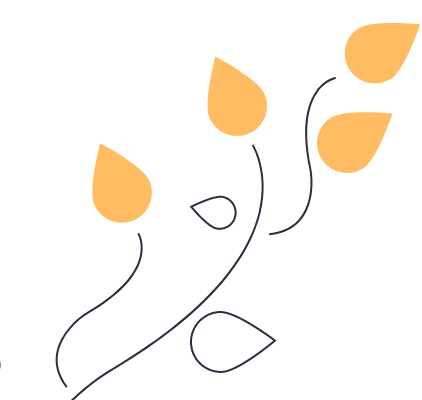
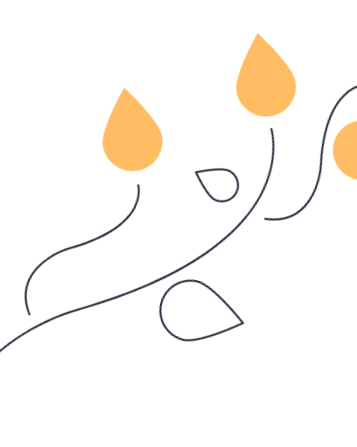
background img fix

diff --git a/resources/views/home/events.blade.php b/resources/views/home/events.blade.php
@@ -10,7 +10,7 @@
                 background-image: url(img/background-lotus.png);
                 background-repeat: no-repeat;
                 background-position: center right;
-                /* background-size: 200px; */
+                background-size: 350px;
             }
             .events__title-fix{
                 max-width: 100%;

diff --git a/resources/views/home/our-service.blade.php b/resources/views/home/our-service.blade.php
@@ -30,7 +30,8 @@
             box-shadow: 0 8px 16px 0 rgba(0,0,0,0.2);
         }
         .our-servies__logo-fix{
-            width:auto;
+            min-height: 110px;
+            max-width: 90px;
         }
         @media only screen and (max-width: 1023px) {
             .our-servies__logo-fix{
